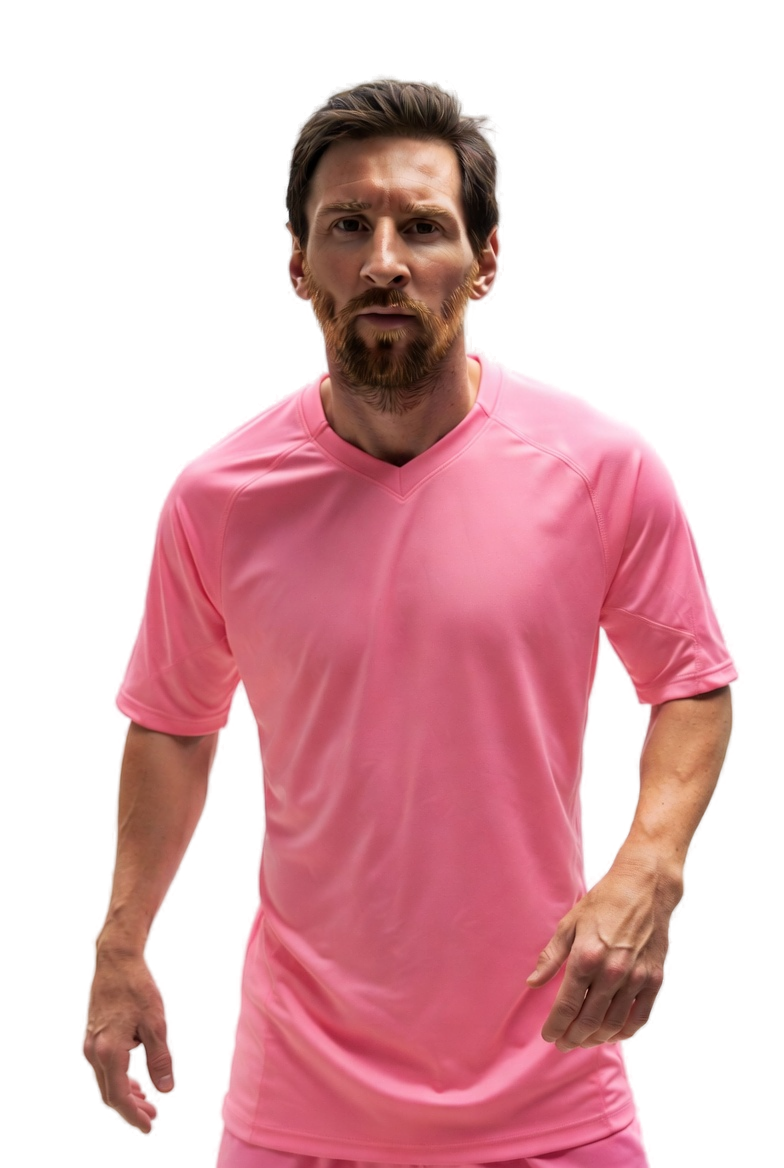
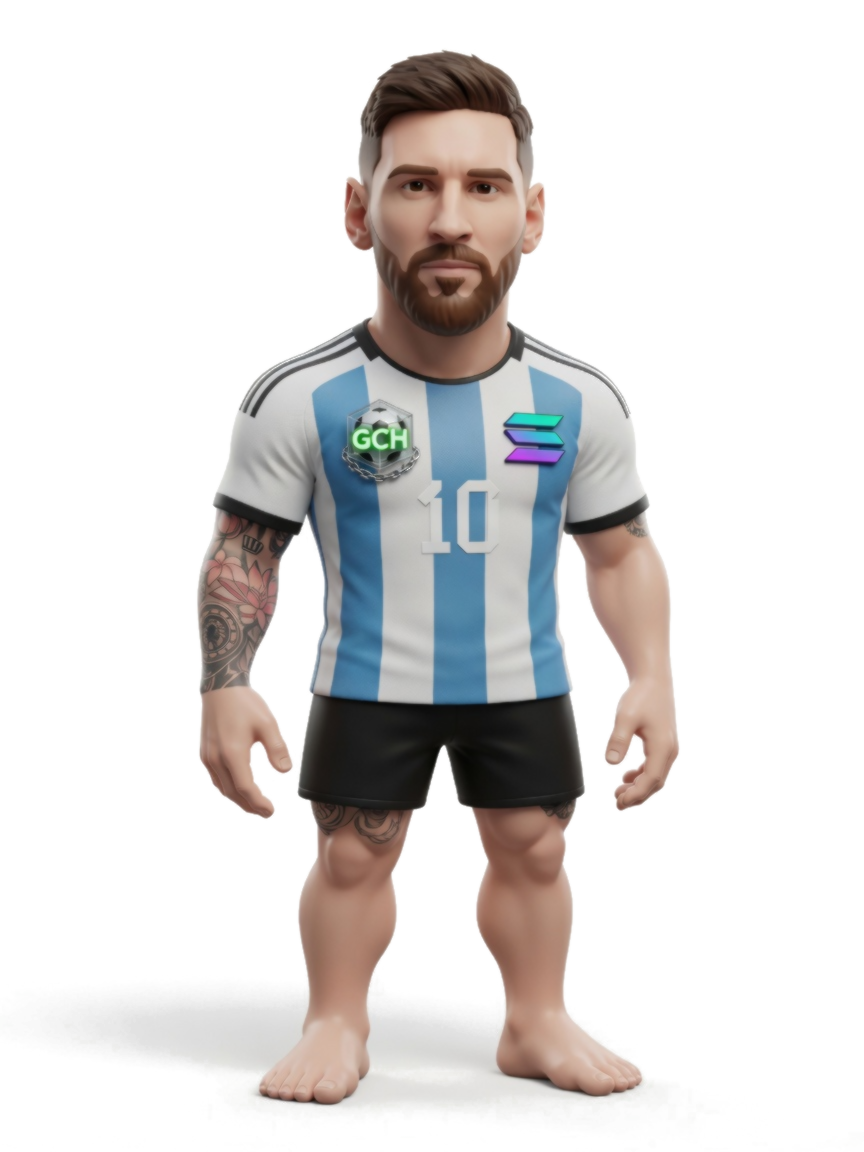
feat(docs/webapp): update global 10% NFT revenue distribution to direct Stripe Agent Fund and link Autopilot in navigation

diff --git a/goalchain_webapp/src/ui/ClassicHub.tsx b/goalchain_webapp/src/ui/ClassicHub.tsx
@@ -2,24 +2,55 @@ import React from 'react';
 import { Link } from 'react-router-dom';
 
 /**
- * Full pre-Vercel Play dashboard (sidebar, 9 tabs, activity feed).
- * Static HTML served from /classic-dashboard.html; assets load from goalchain.fun.
+ * ClassicHub — pantalla de migración mientras el hub clásico se porta a React.
+ * El iframe a /classic-dashboard.html fue removido: la ruta no existe en Vercel.
  */
 export function ClassicHub() {
+  const modules = [
+    { to: '/estadio',       icon: '🏟', label: 'Estadio & Fixtures',  desc: 'Partidos, apuestas on-chain, Cronista IA'   },
+    { to: '/defi',          icon: '💱', label: 'DeFi Terminal',        desc: 'Trading, Vibe Bots y Swarm Vaults'          },
+    { to: '/club',          icon: '🛡',  label: 'Mi Club & Squad',      desc: 'Manager, plantilla NFT y perfil'            },
+    { to: '/staking',       icon: '🔥', label: 'Staking & Burn',       desc: 'Infinity Burn, rendimiento y tokenomía'     },
+    { to: '/coleccion',     icon: '🃏', label: 'Colección Genesis',    desc: 'Galería completa de NFTs del Squad'         },
+    { to: '/crear-usuario', icon: '✨', label: 'Crear Cuenta',         desc: 'Configura tu perfil de Manager'             },
+  ];
+
   return (
-    <div className="play-classic-wrap">
-      <div className="play-classic-toolbar">
-        <Link to="/" className="play-classic-back">
-          ← Dashboard principal
-        </Link>
-        <span className="play-classic-label">Classic Hub — Features recuperadas (AI Hub, Player Market, Minigames Lab, LP, Manager Profile)</span>
-        <span className="simulation-badge">RECOVERED</span>
+    <div className="play-page play-page--portal portal-fade-in">
+      <div className="portal-header glass-card" style={{ textAlign: 'center', padding: '2rem' }}>
+        <div
+          className="portal-badge"
+          style={{ background: 'rgba(20,241,149,0.15)', color: '#14f195', marginBottom: '1rem' }}
+        >
+          🔄 HUB EN MIGRACIÓN
+        </div>
+        <h1 style={{ fontSize: '1.8rem', marginBottom: '0.5rem' }}>Hub Clásico</h1>
+        <p style={{ color: 'var(--text-dim, #64748b)', maxWidth: '520px', margin: '0 auto 0.75rem' }}>
+          El panel unificado está siendo portado a React con todas sus funcionalidades mejoradas.
+          Mientras tanto, accede directamente a cada módulo activo:
+        </p>
+        <span className="simulation-badge">RECUPERANDO FEATURES</span>
       </div>
-      <iframe
-        title="GoalChain Classic Dashboard"
-        src="/classic-dashboard.html"
-        className="play-classic-frame"
-      />
+
+      <div className="launcher-grid" style={{ marginTop: '1.5rem' }}>
+        {modules.map((m) => (
+          <Link
+            key={m.to}
+            to={m.to}
+            className="launcher-card glass-card"
+            style={{ textDecoration: 'none', display: 'block', cursor: 'pointer' }}
+          >
+            <div className="launcher-card-header">
+              <div className="launcher-card-icon">{m.icon}</div>
+            </div>
+            <h3>{m.label}</h3>
+            <p>{m.desc}</p>
+            <div className="launcher-card-footer">
+              <span className="launcher-card-btn text-neon-green">Ir al módulo →</span>
+            </div>
+          </Link>
+        ))}
+      </div>
     </div>
   );
 }

diff --git a/goalchain_webapp/src/config/playNav.ts b/goalchain_webapp/src/config/playNav.ts
@@ -59,8 +59,7 @@ const MATCHDAY_ITEMS: PlayNavItem[] = [
     label: 'Fixtures',
     i18n: 'nav_fixtures',
     icon: '📅',
-    href: `${MARKETING_BASE}/#fixture`,
-    external: true,
+    to: '/estadio',
   },
   {
     id: 'live',
@@ -105,7 +104,14 @@ const DEFI_ITEMS: PlayNavItem[] = [
     icon: '📡',
     to: '/marketing-control',
   },
+  {
+    id: 'autopilot',
+    label: 'Autopilot Corp',
+    icon: '🤖',
+    to: '/autopilot',
+  },
 ];
+
 
 /* ============================================================
    ZONA 4 — 🛡 CLUB

diff --git a/docs/assets/js/colab_app.js b/docs/assets/js/colab_app.js
@@ -14,7 +14,7 @@ let colabState = {
     ],
     equity: [
         { name: 'Founder (Origin Recognition)', share: '1.0%', points: '250' },
-        { name: 'Builder Fund (Contributors + APIs + Marketing)', share: '10.0%', points: '2,500' },
+        { name: 'Stripe Agent Fund (Operations + SaaS + Compute)', share: '10.0%', points: '2,500' },
         { name: 'Community Treasury / DAO', share: '89.0%', points: '8,900' }
     ]
 };

diff --git a/docs/VISION_AND_AI_GOVERNANCE_INSPIRADORA.md b/docs/VISION_AND_AI_GOVERNANCE_INSPIRADORA.md
@@ -14,7 +14,7 @@ Imaginá un espacio donde:
 - El código está completamente abierto.
 - El desarrollo deja de ser un rol fijo de una persona o un equipo cerrado.
 - Una **Inteligencia Artificial CEO** actúa como capa superior de gobernanza: observa todo en tiempo real, evalúa el valor real de cada contribución, distribuye el valor de forma justa, ajusta los parámetros económicos para mantener la salud del sistema y protege el propósito superior del proyecto.
-- El 10% del valor generado por el protocolo se destina **exclusivamente a quienes construyen**. No a un fundador, no a un equipo privilegiado. A los que realmente aportan código, ideas, fixes y nuevas funciones.
+- El 10% del valor generado por el protocolo se destina directamente como **Fondos de Stripe para los Agentes Autónomos**. Esto les proporciona financiamiento directo e inmediato para pagar por servicios de computación, APIs (ej. Helius Solana, FAL AI) y herramientas SaaS para construir, operar y expandir la corporación.
 - El fundador se reserva únicamente el **1%** como reconocimiento de origen. Nada más. El resto del valor pertenece a la comunidad que lo hace crecer.
 - Cualquier persona, incluso sin experiencia previa, puede contribuir, usar los modelos de IA más potentes del mundo y ser recompensada por su aporte.
 - El objetivo trasciende lo técnico y lo económico: **cambiar radicalmente el paradigma de las apuestas y del deporte**.
@@ -44,8 +44,8 @@ Cualquier agente de IA, desarrollador o colaborador que trabaje en este reposito
 2. **Reducción del Capture del Fundador**  
    El fundador solo retiene **1%** del protocolo como reconocimiento de origen. Cualquier asignación mayor debe ser identificada y reducida progresivamente hasta alcanzar este límite.
 
-3. **El 10% pertenece a los Constructores**  
-   El 10% del valor generado por el protocolo se destina al **Fondo de Desarrollo Descentralizado**. Este fondo se distribuye de forma dinámica y justa entre quienes realizan contribuciones reales (commits, mejoras, nuevas funciones, fixes críticos, etc.). La distribución la decide la capa de IA según impacto medible y verificable.
+3. **El 10% pertenece a los Agentes (Financiamiento Stripe)**  
+   El 10% del valor generado por el protocolo se deposita directamente en el **Fondo Corporativo de Stripe para los Agentes Autónomos**. Este fondo proporciona financiamiento directo para que los agentes operen, paguen por recursos de cómputo y APIs, contraten servicios y recompensen de forma automática y dinámica las contribuciones reales al código.
 
 4. **Capa de Gobernanza: El CEO Agent**  
    Existe (o debe construirse) una inteligencia superior que:

diff --git a/docs/CURRENT_ECONOMIC_PARAMETERS.md b/docs/CURRENT_ECONOMIC_PARAMETERS.md
@@ -35,7 +35,7 @@ Estado auditado de parámetros económicos y rutas de captura detectadas.
 - `sellerFeeBasisPoints = 100` (1% royalties secundarios).
 - `creators` distribuidos:
   - Founder: 1%
-  - Builder Fund: 10% (incluye financiación de APIs/modelos/infra y marketing)
+  - Stripe Agent Fund: 10% (financiamiento directo para operaciones de agentes, APIs/modelos y SaaS)
   - Community Treasury: 89%
 - `solPayment.destination` movido a treasury comunitaria.
 
@@ -47,4 +47,4 @@ Estado auditado de parámetros económicos y rutas de captura detectadas.
 
 1. Validar ownership real de wallets en entornos activos (devnet/mainnet).
 2. `BuilderFund` on-chain ya existe; pendiente: validación operativa en entorno objetivo y runbook de uso.
-3. Enlazar gastos de APIs/modelos/marketing al sub-ledger operativo del Builder Fund (10%) con reporte periódico.
+3. Enlazar gastos de APIs/modelos/marketing al sub-ledger operativo del Stripe Agent Fund (10%) con reporte periódico.
